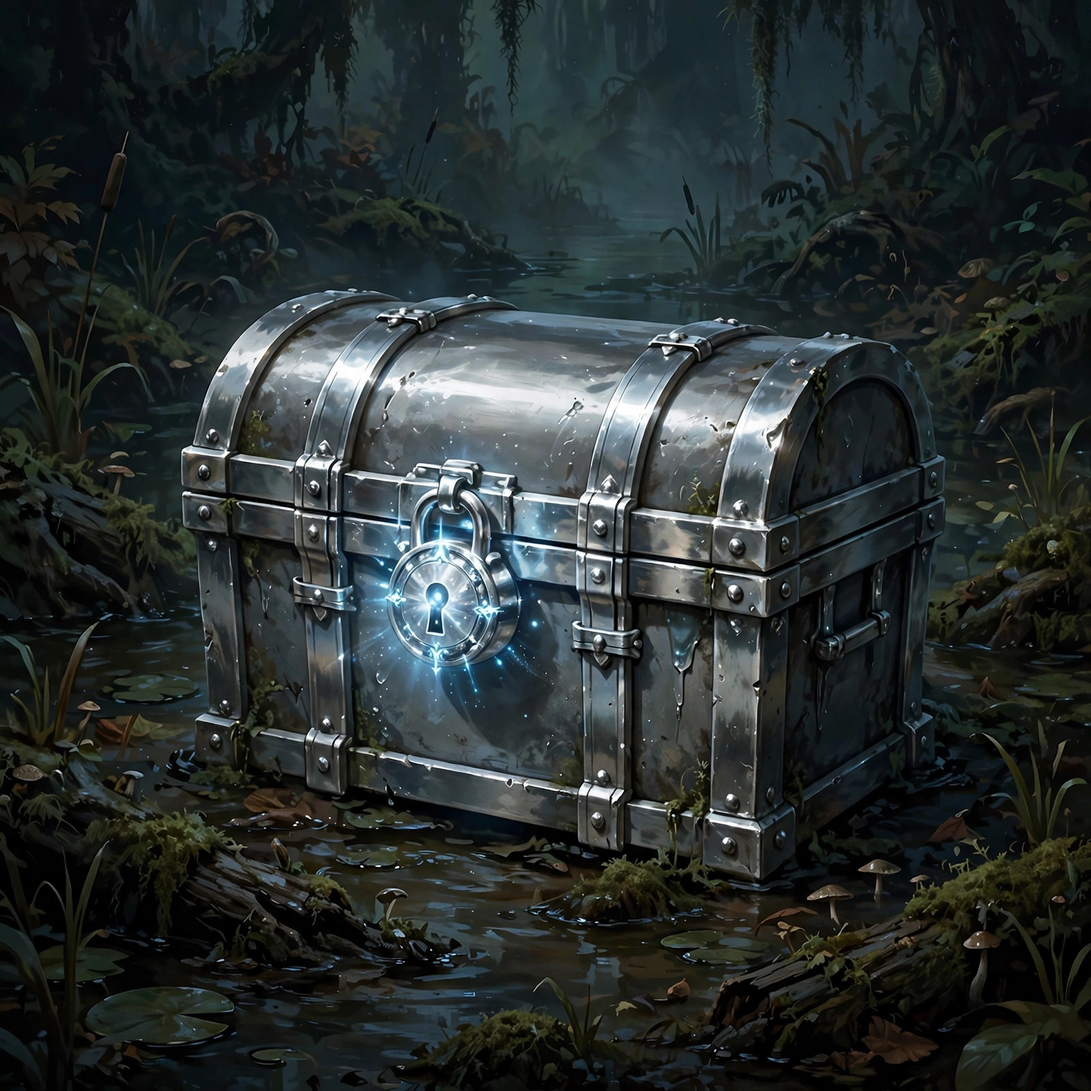
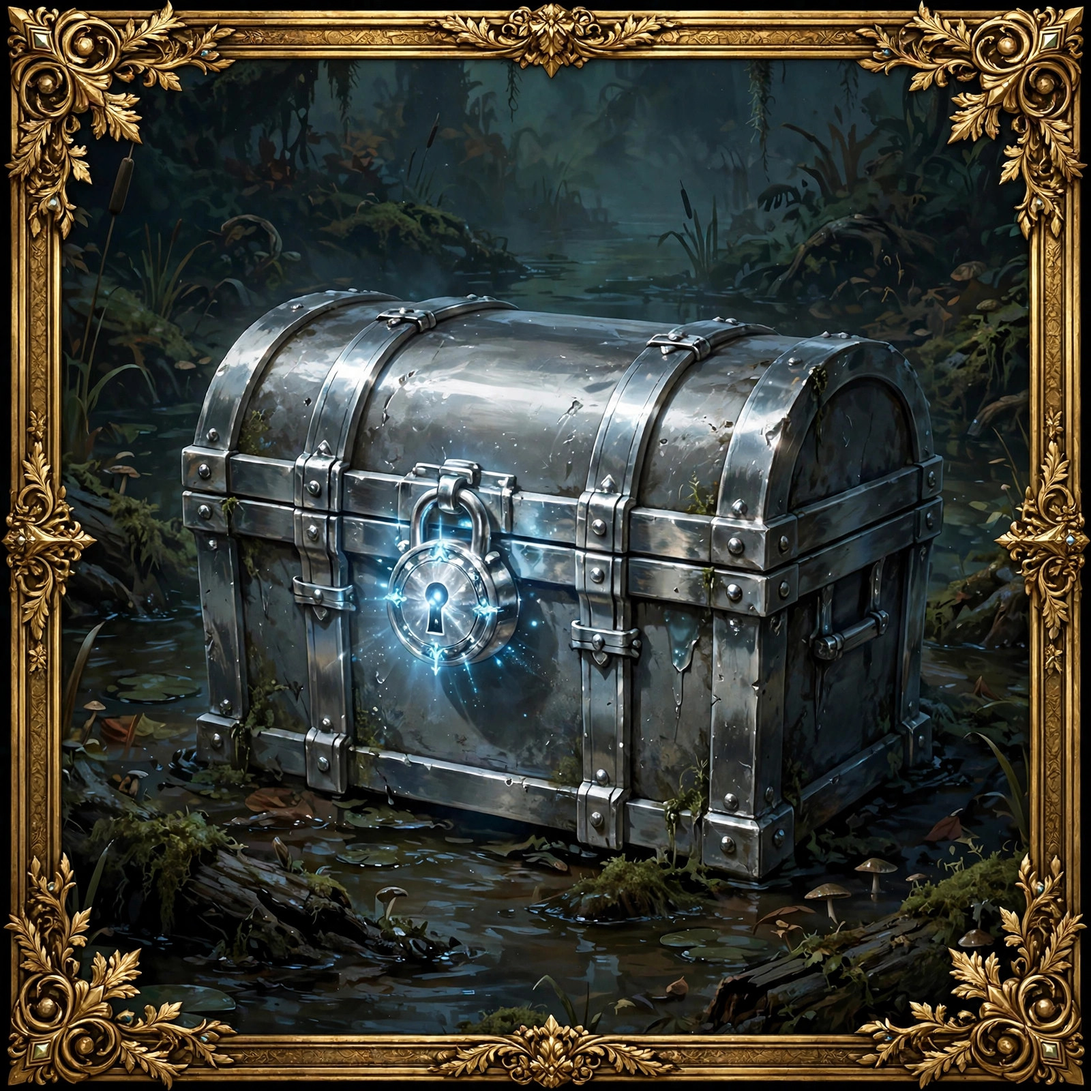
Frog Fight: gold frame baked into Crimson Scales, Silver Chest (enlarged), Lengua Afilada art; card-level frame reverted (GG-2DEA3A)

diff --git a/client/public/frog-fight/index.html b/client/public/frog-fight/index.html
@@ -206,7 +206,6 @@ input[type=text]:focus{outline:none;border-color:var(--emer);box-shadow:0 0 0 3p
 .ffbStats{margin-top:7px;font-size:13px;font-weight:800;color:var(--gold);text-align:center;min-height:18px;}
 .ffbGrid{display:grid;grid-template-columns:repeat(auto-fill,minmax(150px,1fr));gap:8px;margin-top:8px;}
 .ffbItem{border:1px solid rgba(255,255,255,.16);border-radius:14px;background:rgba(0,0,0,.35);padding:8px;text-align:center;}
-.ffbItem.goldFrame{border:2px solid #f2b33c;box-shadow:0 0 12px rgba(242,179,60,.5),inset 0 0 8px rgba(242,179,60,.22);}
 .ffbItem img{width:100%;aspect-ratio:1;object-fit:cover;border-radius:10px;}
 /* Scale-family boost art renders smaller (Goliath, Nov 24, 2026:
    "reduce the size of the scale images"). */
@@ -2487,18 +2486,18 @@ const FFB_BASE = [
   { code:'PADS',  name:'Pads',        art:'boost-art/pads.jpg',        fx:{atk:6, def:0, agi:0}, price:4500,  start:111, count:40 },
   { code:'LEGS',  name:'Frog Legs',   art:'boost-art/legs.jpg',        fx:{atk:3, def:3, agi:0}, price:8000,  start:151, count:30 },
   { code:'RPILL', name:'Red Pills',   art:'boost-art/red-pills.jpg',   fx:{atk:8, def:8, agi:8}, price:15000, start:181, count:20 },
-  { code:'TONGUE', name:'Lengua Afilada', art:'boost-art/tongue.jpg', fx:{atk:0, def:0, agi:0, spc:5}, price:6000, start:201, count:30, gold:true },
+  { code:'TONGUE', name:'Lengua Afilada', art:'boost-art/tongue.jpg', fx:{atk:0, def:0, agi:0, spc:5}, price:6000, start:201, count:30 },
 ];
 const FFB_PREM = [
   { code:'SILVER',  name:'Silver Scale',  art:'boost-art/silver-scale.jpg',  fx:{atk:0,  def:12, agi:4},  price:30000,  start:1,  count:30 },
   { code:'GOLD',    name:'Gold Scale',    art:'boost-art/gold-scale.jpg',    fx:{atk:12, def:6,  agi:0},  price:60000,  start:31, count:20 },
   { code:'DIAMOND', name:'Diamond Scale', art:'boost-art/diamond-scale.jpg', fx:{atk:16, def:16, agi:16}, price:150000, start:51, count:10 },
-  { code:'CRIMSON', name:'Crimson Scales', art:'boost-art/crimson-scale.jpg', fx:{atk:14, def:10, agi:4}, price:100000, start:61, count:20, gold:true },
+  { code:'CRIMSON', name:'Crimson Scales', art:'boost-art/crimson-scale.jpg', fx:{atk:14, def:10, agi:4}, price:100000, start:61, count:20 },
 ];
 const FFB_CHESTS = [
   { code:'WOOD',   name:'Wood Chest',   art:'boost-art/chest-wood.jpg',   inside:1, price:4000 },
   { code:'BRONZE', name:'Bronze Chest', art:'boost-art/chest-bronze.jpg', inside:3, price:10000 },
-  { code:'SILVER', name:'Silver Chest', art:'boost-art/chest-silver.jpg', inside:4, price:13000, gold:true },
+  { code:'SILVER', name:'Silver Chest', art:'boost-art/chest-silver.jpg', inside:4, price:13000 },
   { code:'GOLD',   name:'Gold Chest',   art:'boost-art/chest-gold.jpg',   inside:5, price:16000 },
 ];
 let ffbBoost = { atk: 0, def: 0, agi: 0, spc: 0 };
@@ -2641,7 +2640,7 @@ function ffbShopCard(item, type, issued){
   const pct = ffbSalePctNow();
   const featured = ffbCtl && ffbCtl.global && ffbCtl.global.featuredFfb === item.code;
   const scaleCls = ['SILVER', 'GOLD', 'DIAMOND', 'CRIMSON'].includes(item.code) ? ' scaleItem' : '';
-  return '<div class="ffbItem' + scaleCls + (item.gold ? ' goldFrame' : '') + '"><img src="' + item.art + '" alt="" loading="lazy"><b>' + (featured ? '⭐ ' : '') + esc(item.name) + '</b>' +
+  return '<div class="ffbItem' + scaleCls + '"><img src="' + item.art + '" alt="" loading="lazy"><b>' + (featured ? '⭐ ' : '') + esc(item.name) + '</b>' +
     '<span class="fx">' + fxLine + '</span>' +
     '<span class="pr">' + (pct ? '<s>' + item.price.toLocaleString('en-US') + '</s> ' : '') + ffbPriceNow(item).toLocaleString('en-US') + ' LUNC' + (pct ? ' 🏷' : '') + '</span>' +
     (left != null ? '<span class="left">' + left + ' / ' + cap + ' ' + t('ffbLeft') + '</span>' : '') +
